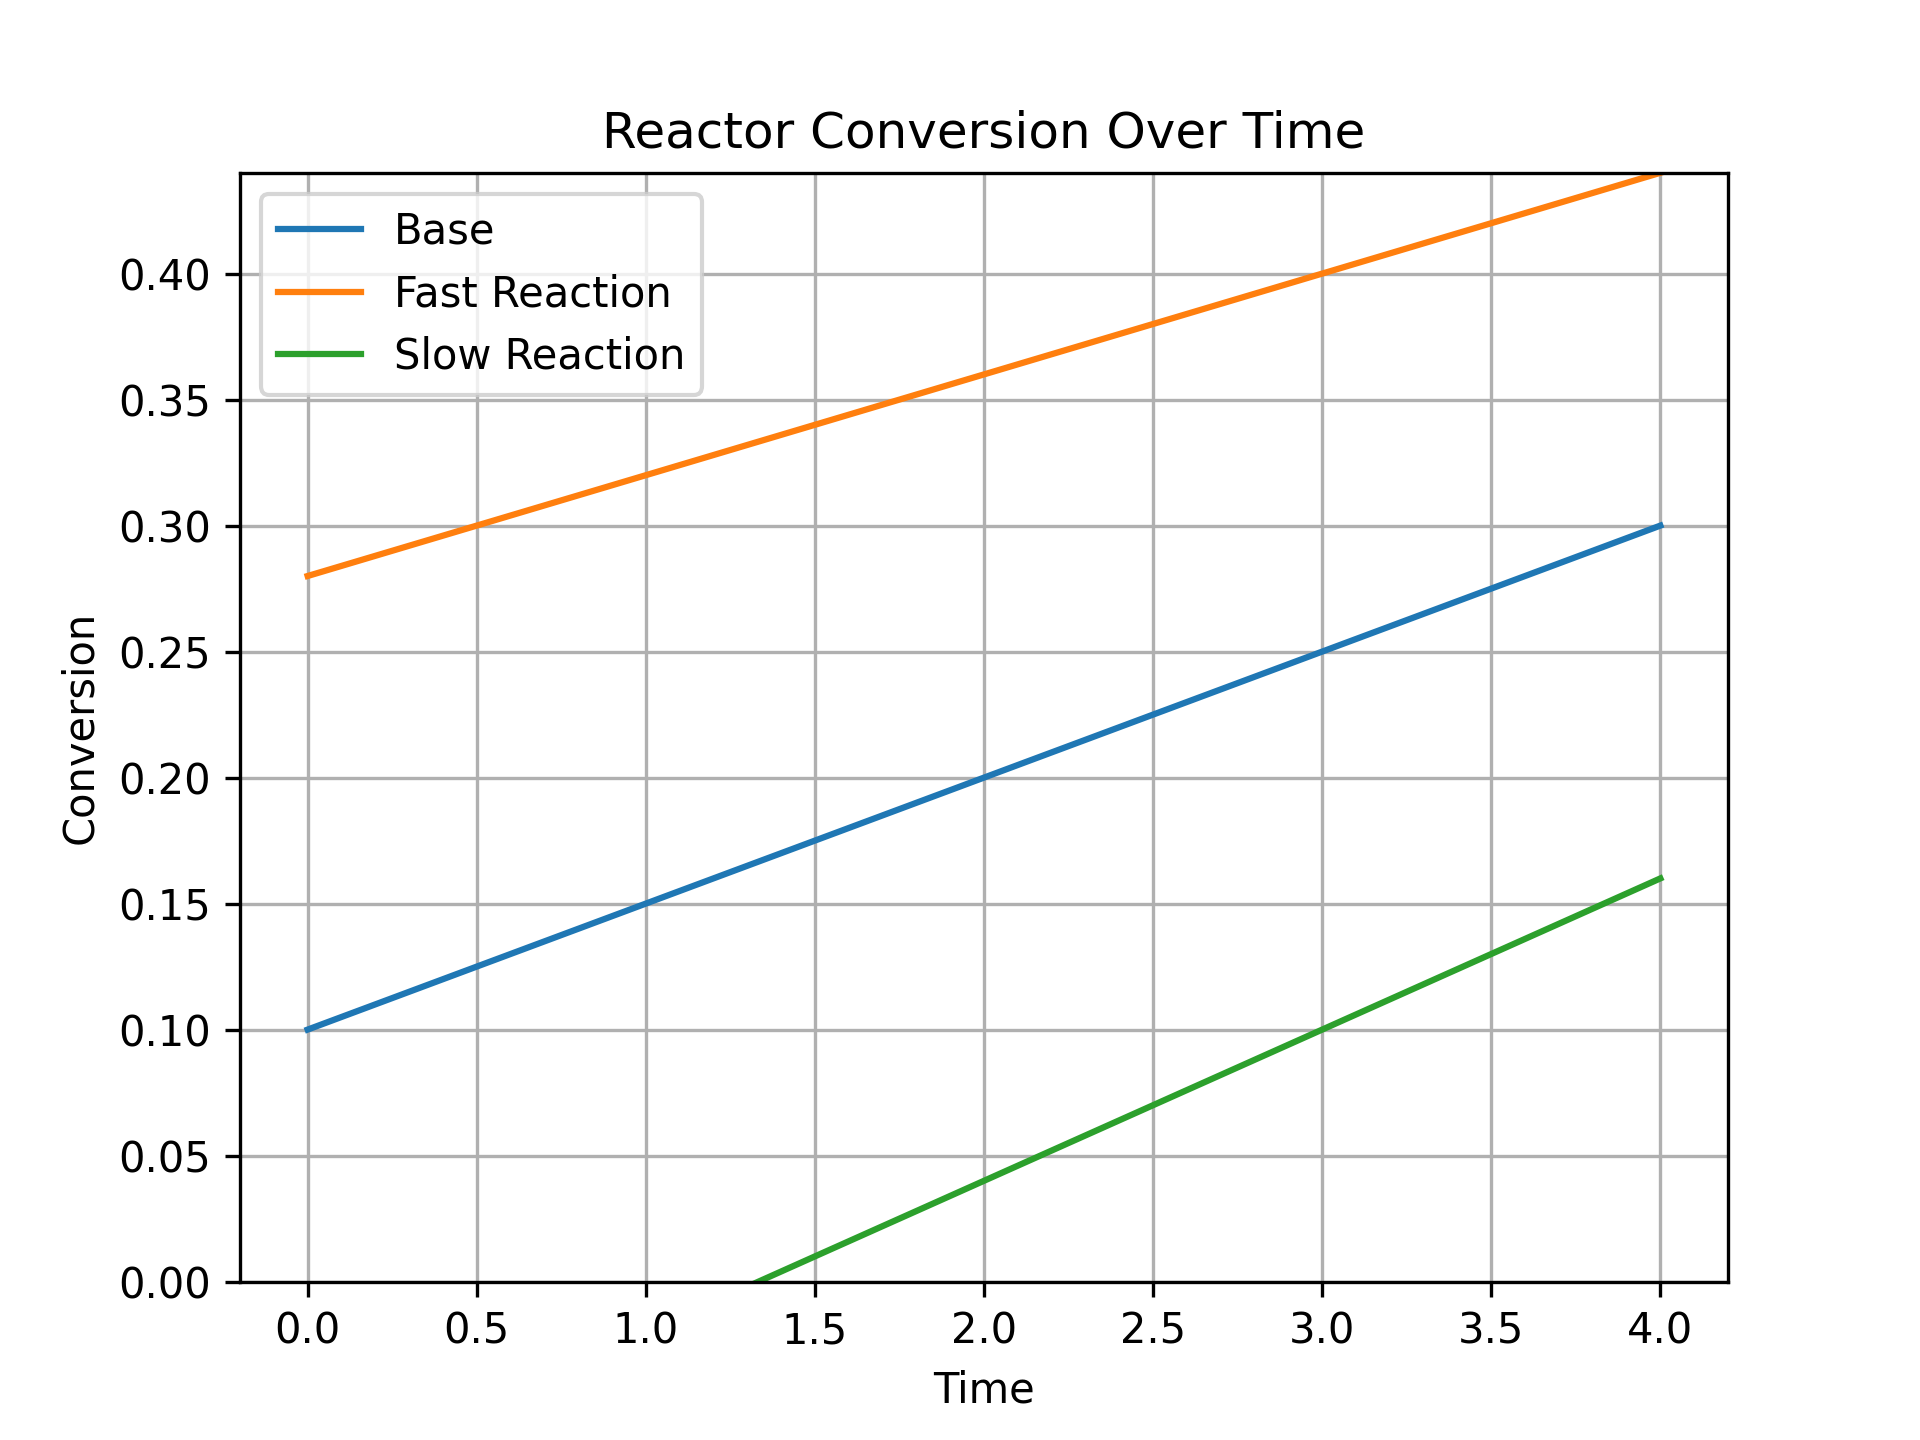
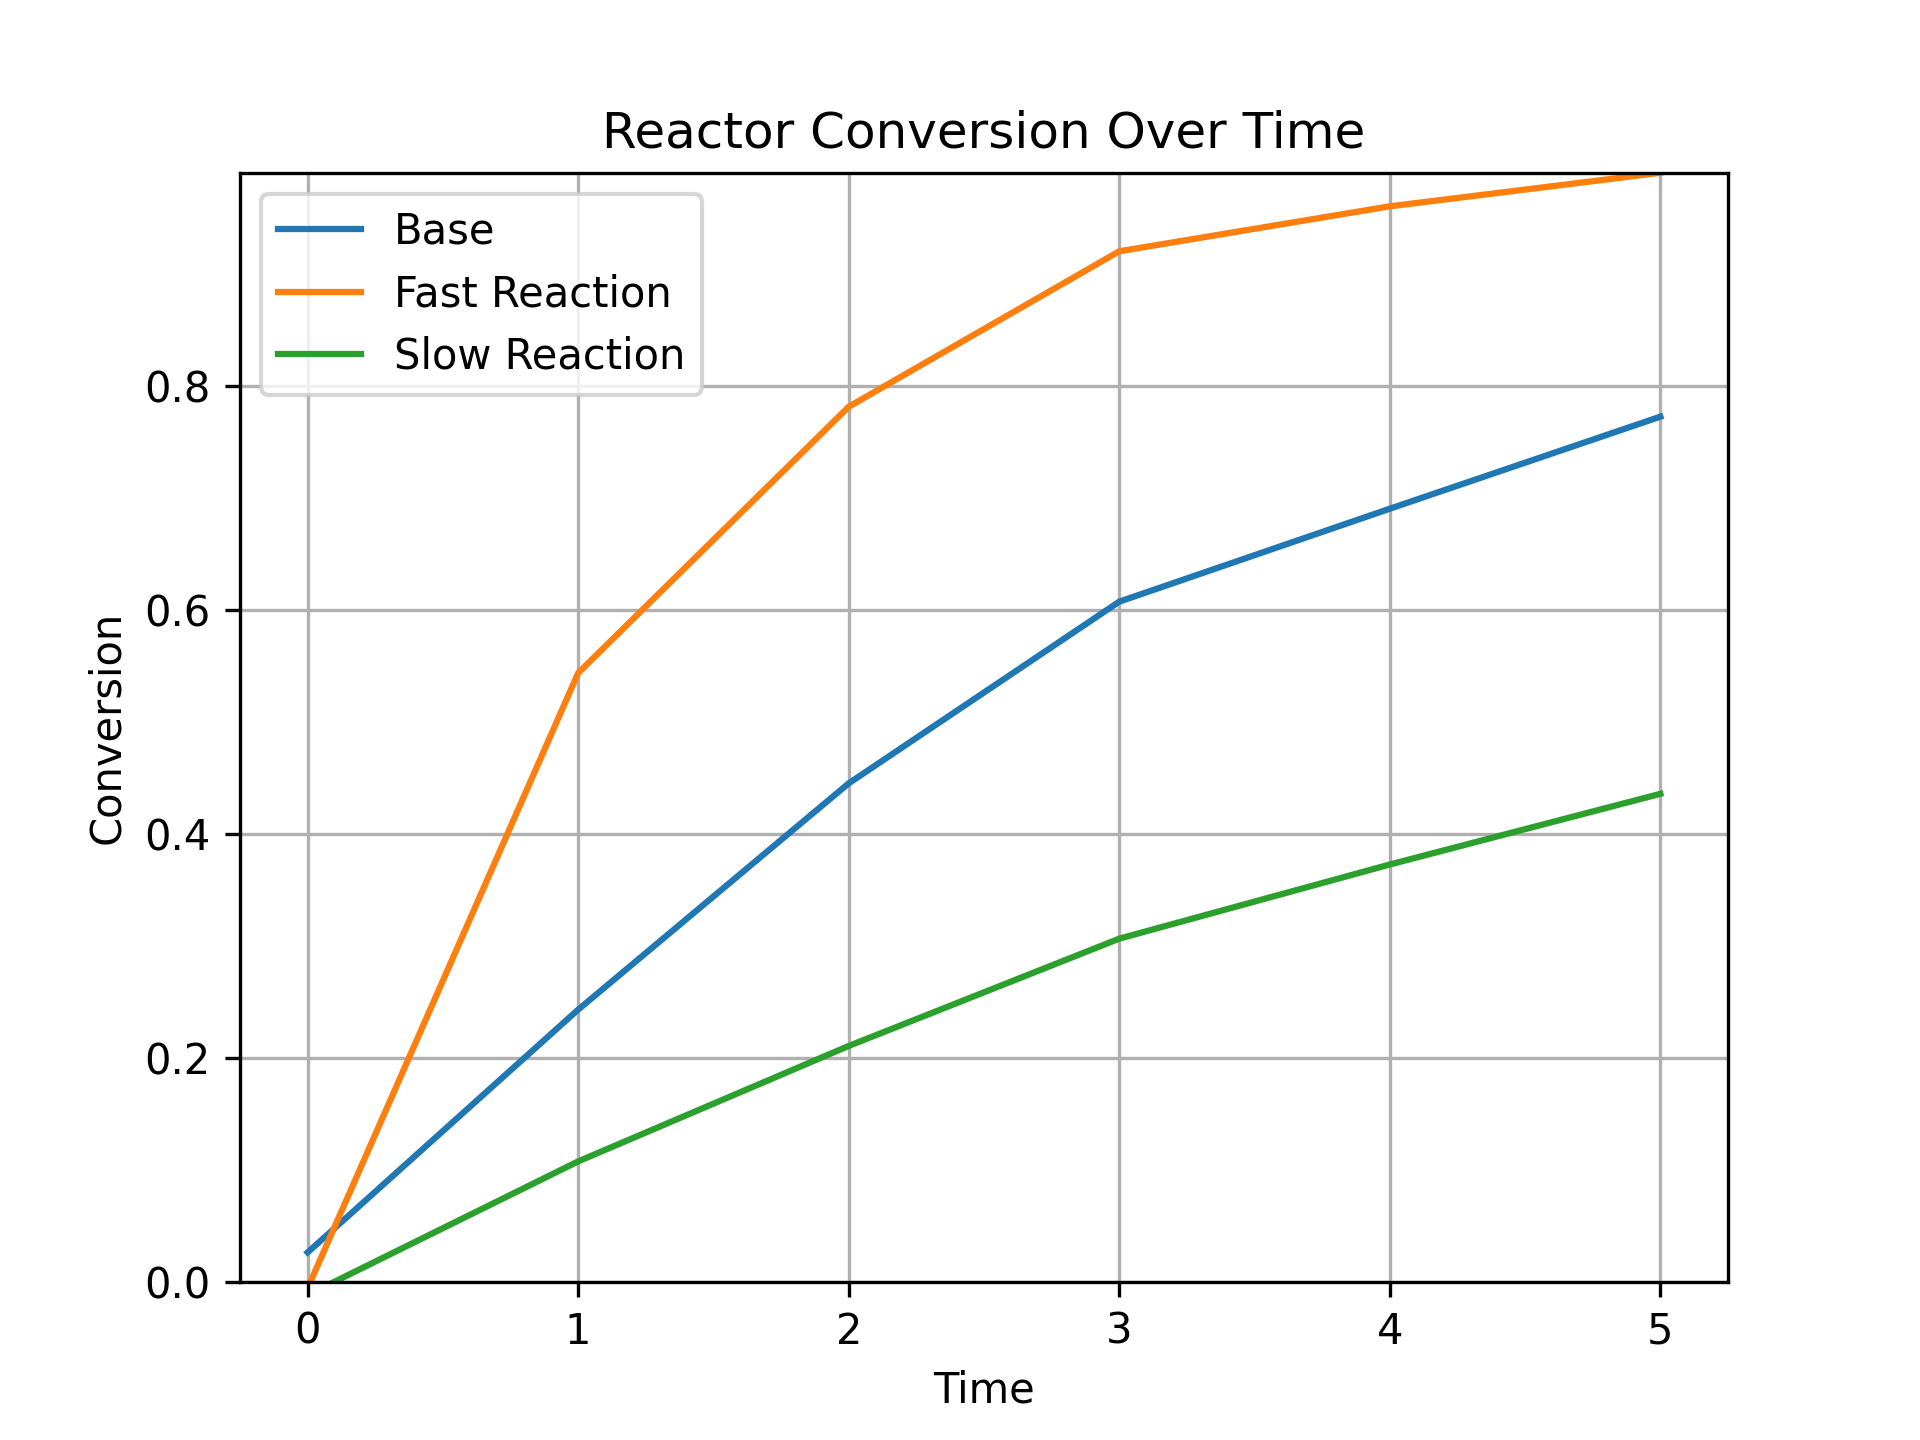
added data generator for more realistic data

diff --git a/main.py b/main.py
@@ -3,20 +3,29 @@ import numpy as np
 from core.metrics import compute_conversion, compute_reaction_rate
 from plotting import plot_conversion, plot_reaction_rate
 from core.data_extractor import load_data
+from data_generator import generate_dataset
 
-#load data
-time, CA_in, CA_out = load_data("data.csv")
+#generate and load data
+#Note: plots in README.md use seed = 1
+generate = input("Generate new dataset? (y/n): ")
+if generate.lower() == "y":
+    seed = input("Enter random seed (integer) or leave blank: ")
+    if seed == "":
+        seed = None
+    else:
+        seed = int(seed)
+    generate_dataset(seed=seed)
+
+time, CA_in, CA_out_base, CA_out_fast, CA_out_slow = load_data("data.csv")
 
 #compute conversion, reactor performance
 # baseline
-conversion_base = compute_conversion(CA_in, CA_out)
+conversion_base = compute_conversion(CA_in, CA_out_base)
 
 # fast reaction scenario
-CA_out_fast = CA_out * 0.8
 conversion_fast = compute_conversion(CA_in, CA_out_fast)
 
 # slow reaction scenario
-CA_out_slow = CA_out * 1.2
 conversion_slow = compute_conversion(CA_in, CA_out_slow)
 
 #plot results
@@ -29,7 +38,7 @@ plot_conversion(time,
                 ["Base", "Fast Reaction", "Slow Reaction"])
 
 plot_reaction_rate(time,
-                   [compute_reaction_rate(CA_out, time),                
+                   [compute_reaction_rate(CA_out_base, time),                
                     compute_reaction_rate(CA_out_fast, time), 
                     compute_reaction_rate(CA_out_slow, time)],
                    ["Base", "Fast Reaction", "Slow Reaction"])

diff --git a/data_generator.py b/data_generator.py
@@ -1,0 +1,37 @@
+import numpy as np
+import pandas as pd
+
+def generate_dataset(filename="data.csv", seed=None):
+
+    rng = np.random.default_rng(seed)
+
+    time = np.array([0, 1, 2, 3, 4, 5])
+    CA_in = np.ones_like(time)
+
+    # kinetic parameters
+    k_base = rng.uniform(0.2, 0.4)
+    k_fast = rng.uniform(0.5, 0.8)
+    k_slow = rng.uniform(0.1, 0.2)
+
+    # concentration profiles
+    CA_out_base = CA_in * np.exp(-k_base * time)
+    CA_out_fast = CA_in * np.exp(-k_fast * time)
+    CA_out_slow = CA_in * np.exp(-k_slow * time)
+
+    # measurement noise
+    noise = 0.02
+    CA_out_base += rng.normal(0, noise, size=len(time))
+    CA_out_fast += rng.normal(0, noise, size=len(time))
+    CA_out_slow += rng.normal(0, noise, size=len(time))
+
+    df = pd.DataFrame({
+        "Time": time,
+        "CA_in": CA_in,
+        "CA_out_base": CA_out_base,
+        "CA_out_fast": CA_out_fast,
+        "CA_out_slow": CA_out_slow
+    })
+
+    df.to_csv(filename, index=False)
+
+    print(f"Dataset saved to {filename}")

diff --git a/core/data_extractor.py b/core/data_extractor.py
@@ -6,6 +6,8 @@ def load_data(filename):
 
     time = data["Time"]
     CA_in = data["CA_in"]
-    CA_out = data["CA_out"]
-
-    return time, CA_in, CA_out
+    CA_out_base = data["CA_out_base"]
+    CA_out_fast = data["CA_out_fast"]
+    CA_out_slow = data["CA_out_slow"]
+    
+    return time, CA_in, CA_out_base, CA_out_fast, CA_out_slow
